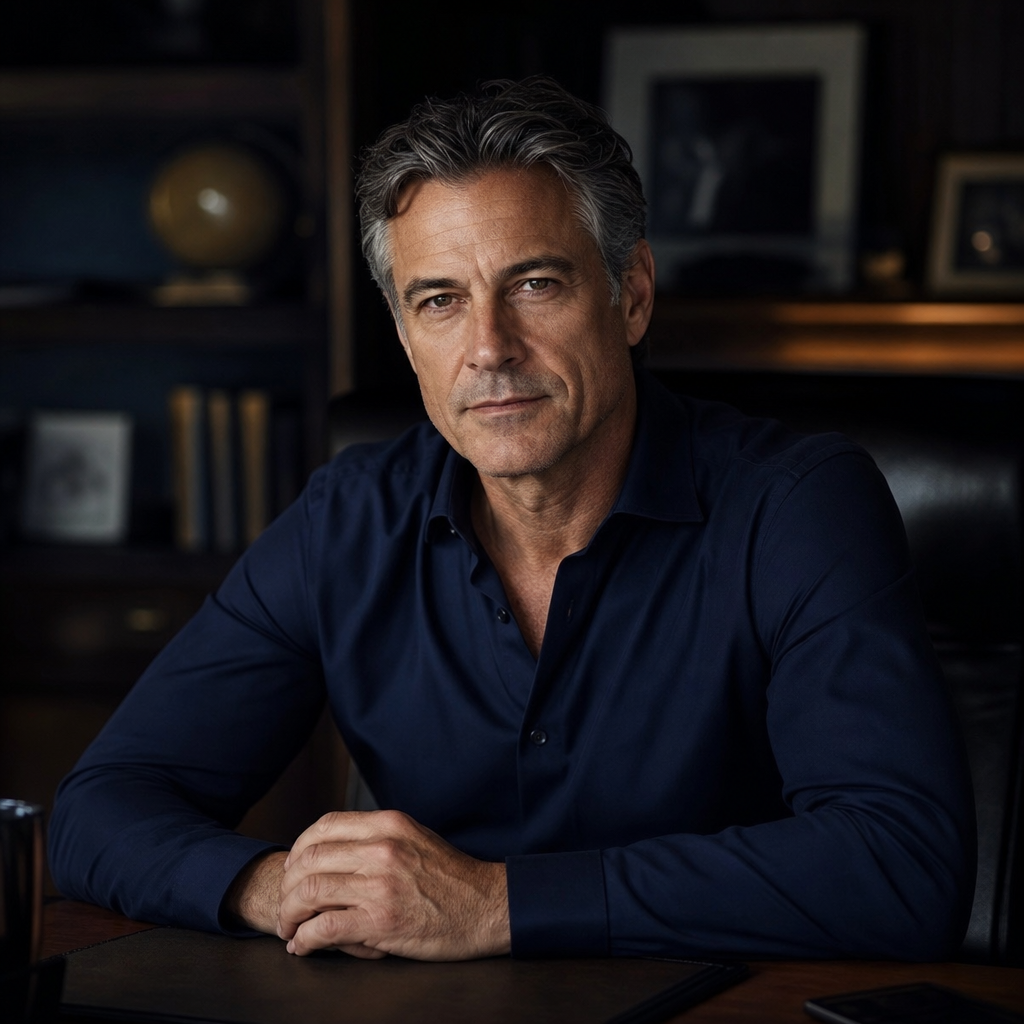
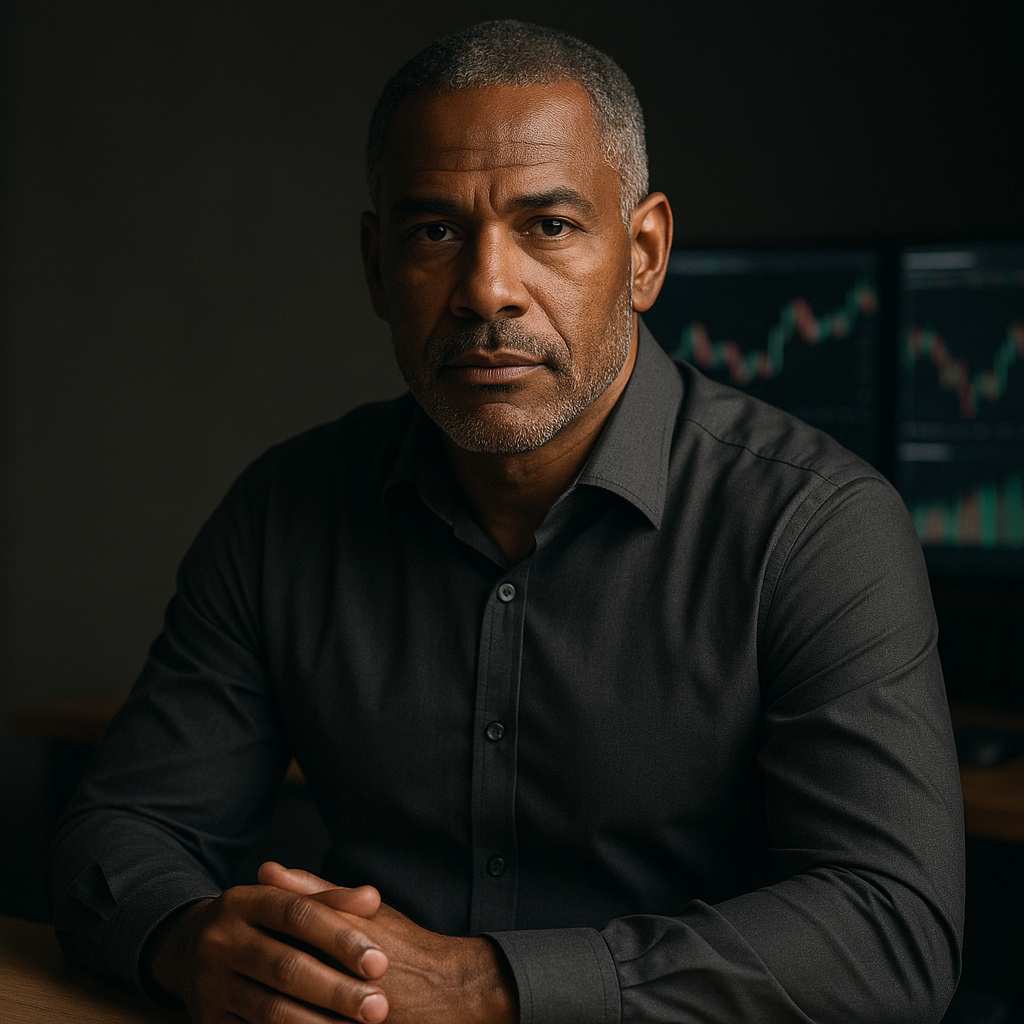
feat: add AI-generated portraits and hero image via gpt-image-1
Mike and Ashley editorial portraits, cinematic trading room hero image.
Wired portraits as fixed right-panel backgrounds on mentor pages.

diff --git a/ashley.html b/ashley.html
@@ -126,6 +126,16 @@
     .section-divider { width: 100%; height: 1px; background: var(--border); }
 
     /* ── OFFICE ENTRANCE ──────────────────────────────────────────── */
+    .office-portrait-bg {
+      position: fixed; top: 0; right: 0;
+      width: 42%; height: 100vh;
+      background: url('/assets/ashley-portrait.png') center top / cover no-repeat;
+      z-index: 0; pointer-events: none;
+      -webkit-mask-image: linear-gradient(to left, rgba(0,0,0,0.18) 0%, rgba(0,0,0,0) 100%);
+      mask-image: linear-gradient(to left, rgba(0,0,0,0.18) 0%, rgba(0,0,0,0) 100%);
+      opacity: 0; animation: fadeUp 1.2s ease 0.3s forwards;
+    }
+    @media (max-width: 768px) { .office-portrait-bg { display: none; } }
     #office-entrance {
       min-height: 100dvh;
       display: flex; flex-direction: column;
@@ -133,6 +143,7 @@
       padding: 140px 60px 100px;
       max-width: 900px;
       margin: 0 auto;
+      position: relative; z-index: 1;
     }
     .office-tag {
       font-family: var(--mono); font-size: 0.62rem;
@@ -304,6 +315,9 @@
   </ul>
   <a href="/onboarding.html?mentor=ashley" class="nav-cta">Begin with Ashley</a>
 </nav>
+
+<!-- PORTRAIT BACKGROUND -->
+<div class="office-portrait-bg" aria-hidden="true"></div>
 
 <!-- OFFICE ENTRANCE -->
 <section id="office-entrance">

diff --git a/mike.html b/mike.html
@@ -138,6 +138,16 @@
     }
 
     /* ── HERO / OFFICE ENTRANCE ──────────────────────────────────── */
+    .office-portrait-bg {
+      position: fixed; top: 0; right: 0;
+      width: 42%; height: 100vh;
+      background: url('/assets/mike-portrait.png') center top / cover no-repeat;
+      z-index: 0; pointer-events: none;
+      -webkit-mask-image: linear-gradient(to left, rgba(0,0,0,0.18) 0%, rgba(0,0,0,0) 100%);
+      mask-image: linear-gradient(to left, rgba(0,0,0,0.18) 0%, rgba(0,0,0,0) 100%);
+      opacity: 0; animation: fadeUp 1.2s ease 0.3s forwards;
+    }
+    @media (max-width: 768px) { .office-portrait-bg { display: none; } }
     #office-entrance {
       min-height: 100dvh;
       display: flex; flex-direction: column;
@@ -145,6 +155,7 @@
       padding: 140px 60px 100px;
       max-width: 900px;
       margin: 0 auto;
+      position: relative; z-index: 1;
     }
     .office-tag {
       font-family: var(--mono); font-size: 0.62rem;
@@ -417,6 +428,9 @@
   </ul>
   <a href="/onboarding.html?mentor=mike" class="nav-cta">Begin with Mike</a>
 </nav>
+
+<!-- PORTRAIT BACKGROUND -->
+<div class="office-portrait-bg" aria-hidden="true"></div>
 
 <!-- OFFICE ENTRANCE -->
 <section id="office-entrance">